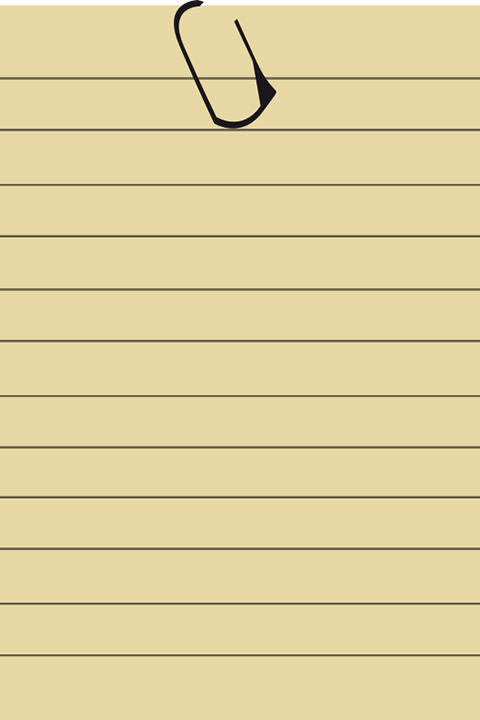
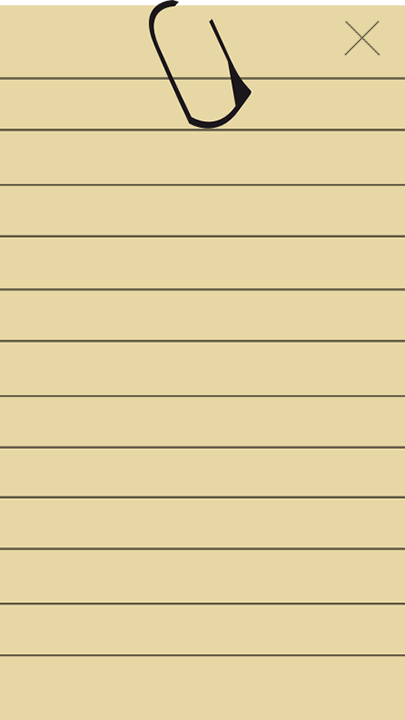
Chage resolution in TeleClicker and shopBg

Changed region(s): [[0.3556, 0.0, 0.6222, 0.1833], [0.8593, 0.0306, 0.9185, 0.0611]]

diff --git a/core/src/com/mygdx/teleclicker/ui/CloseShopButton.java b/core/src/com/mygdx/teleclicker/ui/CloseShopButton.java
@@ -1,0 +1,31 @@
+package com.mygdx.teleclicker.ui;
+
+import com.badlogic.gdx.scenes.scene2d.InputEvent;
+import com.badlogic.gdx.scenes.scene2d.ui.Button;
+import com.badlogic.gdx.scenes.scene2d.utils.ClickListener;
+
+/**
+ * Created by Senpai on 11.07.2016.
+ */
+public class CloseShopButton extends Button{
+    public CloseShopButton(final IClickCallback callback) {
+        super(new ButtonStyle());
+        init(callback);
+    }
+
+    private void init(final IClickCallback callback) {
+        this.setWidth(43);
+        this.setHeight(43);
+        this.setX(0);
+        this.setY(0);
+        this.setDebug(true);
+
+        this.addListener(new ClickListener(){
+            @Override
+            public boolean touchDown(InputEvent event, float x, float y, int pointer, int button) {
+                callback.onClick();
+                return super.touchDown(event, x, y, pointer, button);
+            }
+        });
+    }
+}

diff --git a/core/src/com/mygdx/teleclicker/TeleClicker.java b/core/src/com/mygdx/teleclicker/TeleClicker.java
@@ -12,8 +12,8 @@ public class TeleClicker extends Game {
 	public final static String GAME_PREFS = "com.mygdx.clicker.prefs";
 	public final static String GAME_NAME = "Tele Clicker";
 
-	public final static int WIDTH = 480;
-	public final static int HEIGHT = 700;
+	public final static int WIDTH = 405;
+	public final static int HEIGHT = 720;
 
 	private boolean paused;
 
